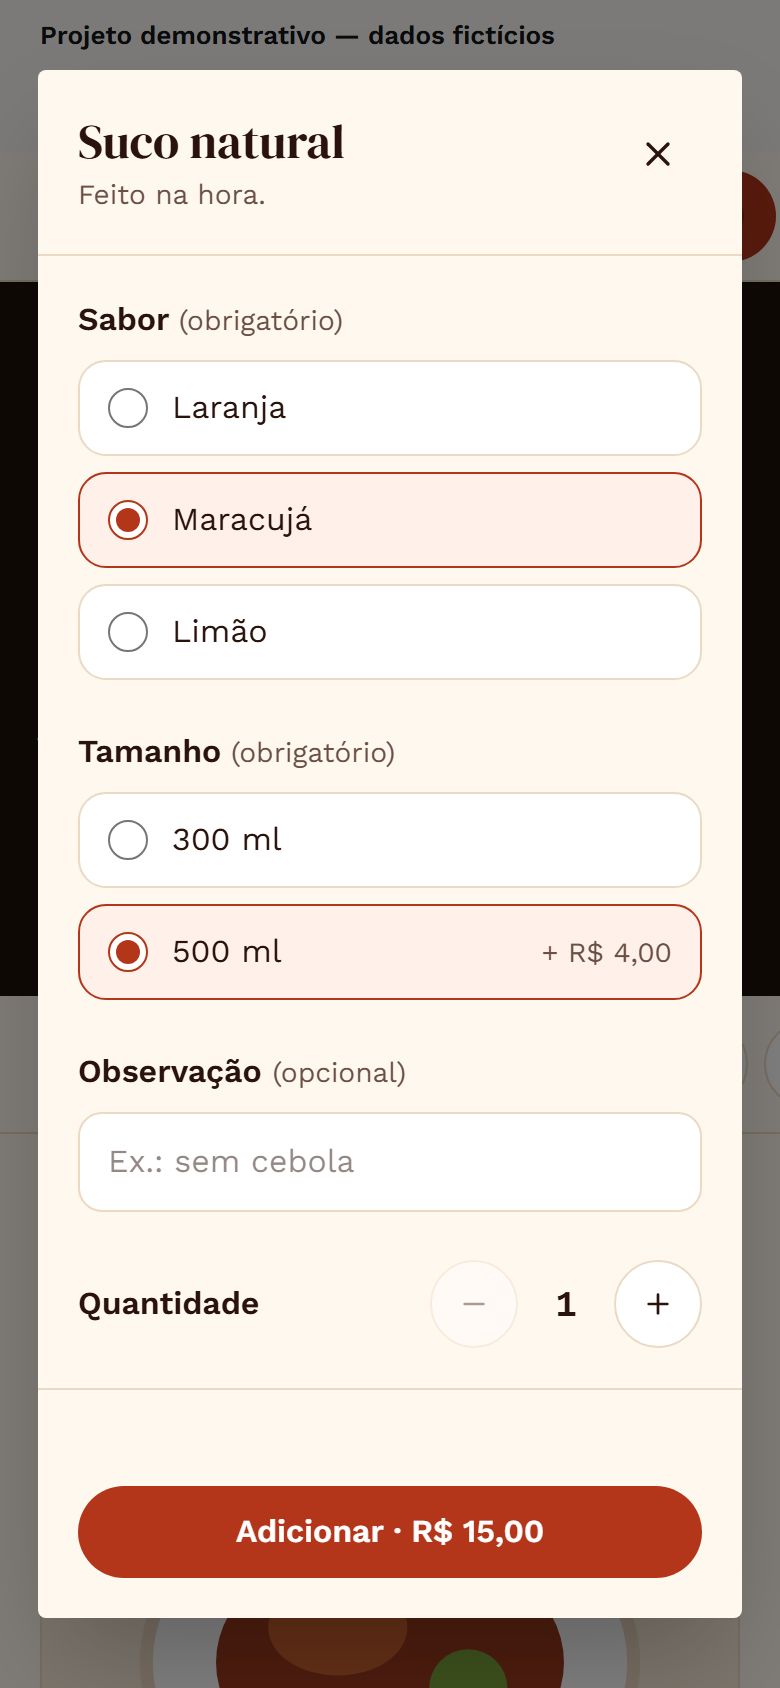
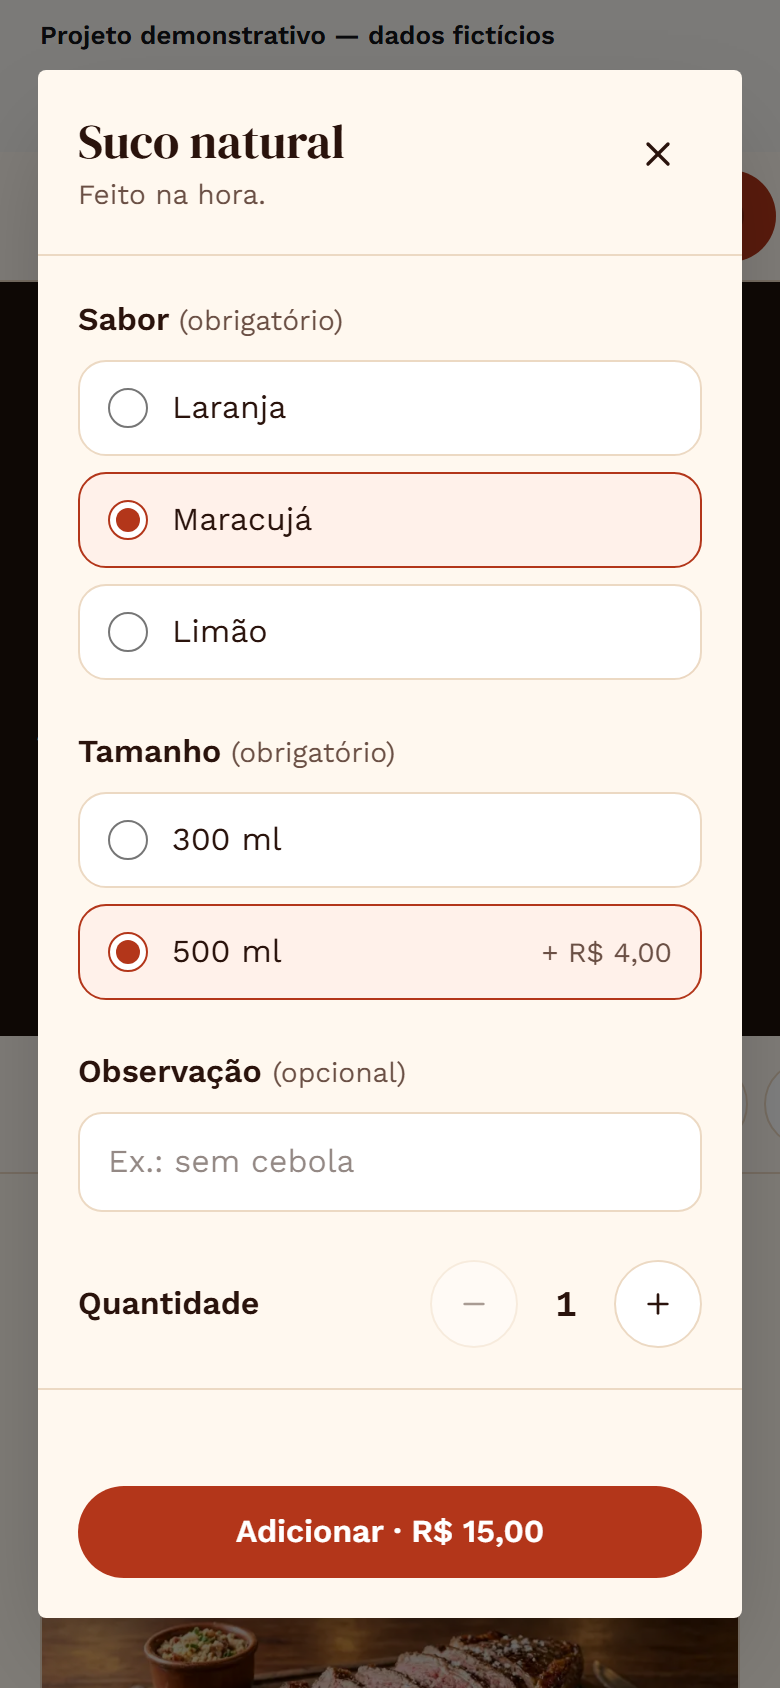
Restaurante: fotos dos pratos geradas por IA
13 fotos (Nano Banana, Google Flow) no cardápio, em WebP até 1200 px e
servidas pelo otimizador do Next; o prato sem foto volta à ilustração.
Aviso no rodapé de que as fotos são ilustrativas e geradas por IA,
registro em docs/assets.md e capturas do case refeitas.

scripts/importar-fotos.mjs reconhece as fotos pelo nome exato ou pelas
palavras do nome dado pelo Flow e gera src/data/fotos.ts.

Changed region(s): [[0.0308, 0.955, 0.9538, 1.0], [0.9538, 0.5853, 1.0, 0.6161], [0.0, 0.5853, 0.0615, 0.6161]]

diff --git a/apps/restaurante/src/components/menu-board.tsx b/apps/restaurante/src/components/menu-board.tsx
@@ -3,7 +3,7 @@
 import { Minus, Plus, ShoppingBag, X } from "lucide-react";
 import Link from "next/link";
 import { useRef, useState } from "react";
-import { PlateArt } from "@/components/plate-art";
+import { DishImage } from "@/components/dish-image";
 import { categories, getGroup, menu, type MenuItem } from "@/data/menu";
 import { MAX_QUANTITY, unitPriceCents, validateAddons, type AddonSelection } from "@/lib/cart";
 import { cartActions, useRestaurantState } from "@/lib/demo-store";
@@ -85,7 +85,7 @@ export function MenuBoard() {
                 .filter((entry) => entry.categoryId === category.id)
                 .map((entry) => (
                   <li key={entry.id} className="flex flex-col overflow-hidden rounded-card border border-line bg-paper">
-                    <PlateArt art={entry.art} className="h-auto w-full" />
+                    <DishImage art={entry.art} sizes="(min-width: 1024px) 380px, (min-width: 640px) 50vw, 100vw" />
                     <div className="flex flex-1 flex-col p-5">
                       <div className="flex items-start justify-between gap-3">
                         <h3 className="text-xl">{entry.name}</h3>

diff --git a/apps/restaurante/src/data/fotos.ts b/apps/restaurante/src/data/fotos.ts
@@ -1,0 +1,58 @@
+// Gerado por scripts/importar-fotos.mjs — não editar à mão.
+// Fotos geradas por IA (Nano Banana, Google Flow) para esta demo fictícia; origem registrada em docs/assets.md.
+// Itens sem foto continuam com a ilustração.
+
+export const fotos: Readonly<Record<string, { width: number; height: number }>> = {
+  "picanha": {
+    "width": 1200,
+    "height": 896
+  },
+  "costela": {
+    "width": 1200,
+    "height": 896
+  },
+  "frango": {
+    "width": 1200,
+    "height": 896
+  },
+  "linguica": {
+    "width": 1200,
+    "height": 896
+  },
+  "arroz": {
+    "width": 1200,
+    "height": 896
+  },
+  "farofa": {
+    "width": 1200,
+    "height": 896
+  },
+  "mandioca": {
+    "width": 1200,
+    "height": 896
+  },
+  "salada": {
+    "width": 1200,
+    "height": 896
+  },
+  "refri": {
+    "width": 1200,
+    "height": 896
+  },
+  "suco": {
+    "width": 1200,
+    "height": 896
+  },
+  "agua": {
+    "width": 1200,
+    "height": 896
+  },
+  "pudim": {
+    "width": 1200,
+    "height": 896
+  },
+  "brownie": {
+    "width": 1200,
+    "height": 896
+  }
+};

diff --git a/apps/restaurante/src/components/dish-image.tsx b/apps/restaurante/src/components/dish-image.tsx
@@ -1,0 +1,23 @@
+import Image from "next/image";
+import { PlateArt } from "@/components/plate-art";
+import { fotos } from "@/data/fotos";
+import type { PlateArt as Art } from "@/data/menu";
+
+/*
+ * Foto do prato (gerada por IA para esta demo fictícia) ou, se ainda não houver foto, a ilustração.
+ * Decorativa: o nome do prato já aparece no card, então o texto alternativo fica vazio.
+ */
+export function DishImage({ art, sizes, className = "" }: { art: Art; sizes: string; className?: string }) {
+  const foto = fotos[art];
+  if (!foto) return <PlateArt art={art} className={`h-auto w-full ${className}`} />;
+  return (
+    <Image
+      src={`/fotos/${art}.webp`}
+      alt=""
+      width={foto.width}
+      height={foto.height}
+      sizes={sizes}
+      className={`aspect-[4/3] h-auto w-full object-cover ${className}`}
+    />
+  );
+}

diff --git a/apps/restaurante/src/components/site-chrome.tsx b/apps/restaurante/src/components/site-chrome.tsx
@@ -30,7 +30,7 @@ export function SiteFooter() {
           <p className="font-serif text-2xl">Sabor &amp; Brasa</p>
           <p className="mt-3 max-w-md text-sm leading-relaxed text-cream/75">
             O Sabor &amp; Brasa é um restaurante fictício. Esta página é uma demonstração criada por Alex Castro: cardápio,
-            preços, bairros e taxas são exemplos, e nenhum pedido é enviado.
+            preços, bairros e taxas são exemplos, e nenhum pedido é enviado. As fotos dos pratos são ilustrativas, geradas por IA.
           </p>
         </div>
         {quoteUrl && (

diff --git a/docs/assets.md b/docs/assets.md
@@ -52,3 +52,13 @@ As capas conceituais de clínica, restaurante, oficina e serviços foram removid
 | Fontes Karla, Newsreader, Cormorant Garamond, Source Sans 3, Outfit, Nunito, Space Grotesk, DM Sans, Fraunces, Jost | via `next/font/google` | Google Fonts, SIL OFL 1.1 | Demos |
 
 As capas conceituais dessas demos foram removidas ao ganharem capturas reais.
+
+### Fotos geradas por IA
+
+As ilustrações das demos estão sendo substituídas por fotos **geradas por IA** (Nano Banana, no Google Flow), a partir dos prompts de `docs/fotos-ia.md`. Não são fotos de negócios, pratos, imóveis ou pessoas reais, e cada demo avisa isso no rodapé. Os originais ficam em `fotos-ia/` (fora do Git); `node scripts/importar-fotos.mjs <site>` gera as versões WebP (até 1200 px) em `apps/<site>/public/fotos/` e a lista `src/data/fotos.ts`. Onde não houver foto, a ilustração continua.
+
+| Demo | Fotos | Local | Gerador | Data |
+|---|---|---|---|---|
+| Sabor & Brasa (restaurante) | 13 pratos e bebidas | `apps/restaurante/public/fotos/` | Nano Banana (Google Flow), gerado pelo proprietário | 28/09/2026 |
+
+Critérios de revisão de cada foto: correspondência com o item, nenhum texto, logotipo ou marca d'água, sem pessoas identificáveis (vultos desfocados ao fundo são aceitos), proporção compatível com o card.

diff --git a/docs/fotos-ia.md b/docs/fotos-ia.md
@@ -29,6 +29,8 @@ Para gerar com o agente do Flow (até 20 imagens por pedido), use os prompts pro
 
 A pasta `fotos-ia/` já existe e fica fora do Git (os originais são grandes). Só as versões otimizadas entram no projeto.
 
+**Nomes:** se o Flow salvar com nomes próprios (ex.: `Sliced_picanha_on_wooden_board_2026….jpg`), pode deixar assim. `node scripts/importar-fotos.mjs <site>` reconhece cada foto pelas palavras do nome e avisa se alguma ficar ambígua ou sem correspondência.
+
 ### Dica para manter as fotos de uma demo parecidas entre si
 
 Gere a primeira foto da demo, escolha a melhor e, nas seguintes, anexe essa foto como referência no Flow com a frase "mantenha o mesmo estilo de luz, fundo e cores desta imagem". Assim o catálogo fica coerente.
